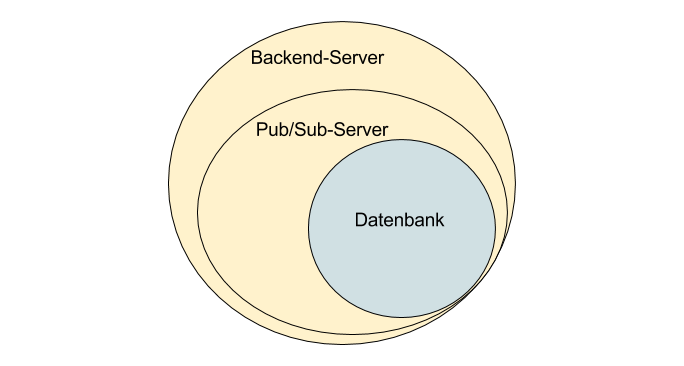
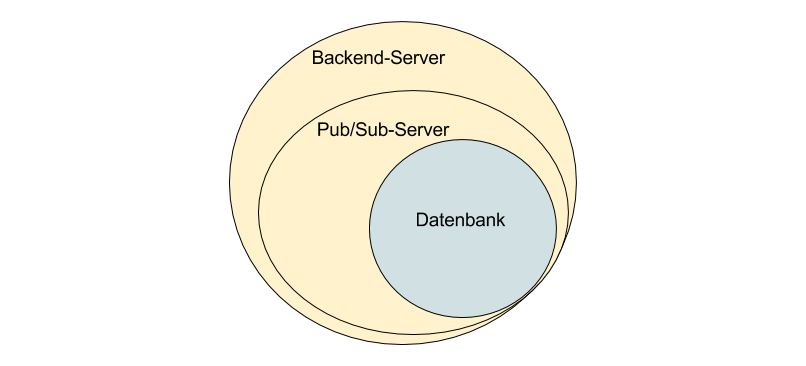
update the png

diff --git a/fullstack-development/realtimeDB/VorUndNachteile.md b/fullstack-development/realtimeDB/VorUndNachteile.md
@@ -7,7 +7,7 @@ Ein Vorteil von Realtime Datenbanken ist es, vereinfachte Schnittstellen zu habe
 Dies kann dann so ausgebaut werden, dass ein `three-way-data-binding` vorliegt. In modernen Rich Client Applikationen wird häufig das `two-way-data-binding` genutzt, um den Status der Client-Anwendung im Model (MVC-Pattern) aus der View heraus zu verändern. Mit dem `three-way-data-binding` ergibt sich nun die Möglichkeit, dass die Realtime Datenbank eine Aktualisierung bekommt (von einer *beliebigen* Quelle aus; sei es eine andere Client-Anwendung oder einer externen Schnittstelle), dieses Ereigniss wird dann zu allen Client-Anwendungen propagiert und dadurch wird der Status der jeweiligen Client-Anwendung im Model verändert und diese Veränderung spiegelt sich dann auch in der Veränderung der View wieder. Durch die vereinfachte Schnittstelle der Realtime Datenbank (zum Beispiel Firebase) kann das in wenigen Zeilen Code ermöglicht werden.  
 
 
-![](/assets/szenario_realtime_datenbank.jpg)Abbildung: Szenario Four-Way-Data-Binding mit mehreren Client-Anwendungen  
+![](/assets/szenario_realtime_datenbank.png)Abbildung: Szenario Four-Way-Data-Binding mit mehreren Client-Anwendungen  
 
 
 In der Abbildung wird das three-way-data-binding zum four-way-data-binding erweitert. Die vierte Komponente ist in dem Fall das _LocalStorage_, das dazu genutzt wird, um die Daten auch offline speichern und erreichen zu können. Wenn das Szenario die Nutzung des LocalStorages eines WebBrowsers nicht zulässt, kann auch eine andere lokale Datenbank genutzt werden. Diese lokale (offline) Datenbank muss unbedingt synchron zur Realtime Datenbank sein. Jede Veränderung der Realtime Datenbank muss synchronisiert werden, sodass die Abfragen der Client-Anwendung sich direkt an die lokale Datenbank wenden und nicht an die Realtime Datenbank.
